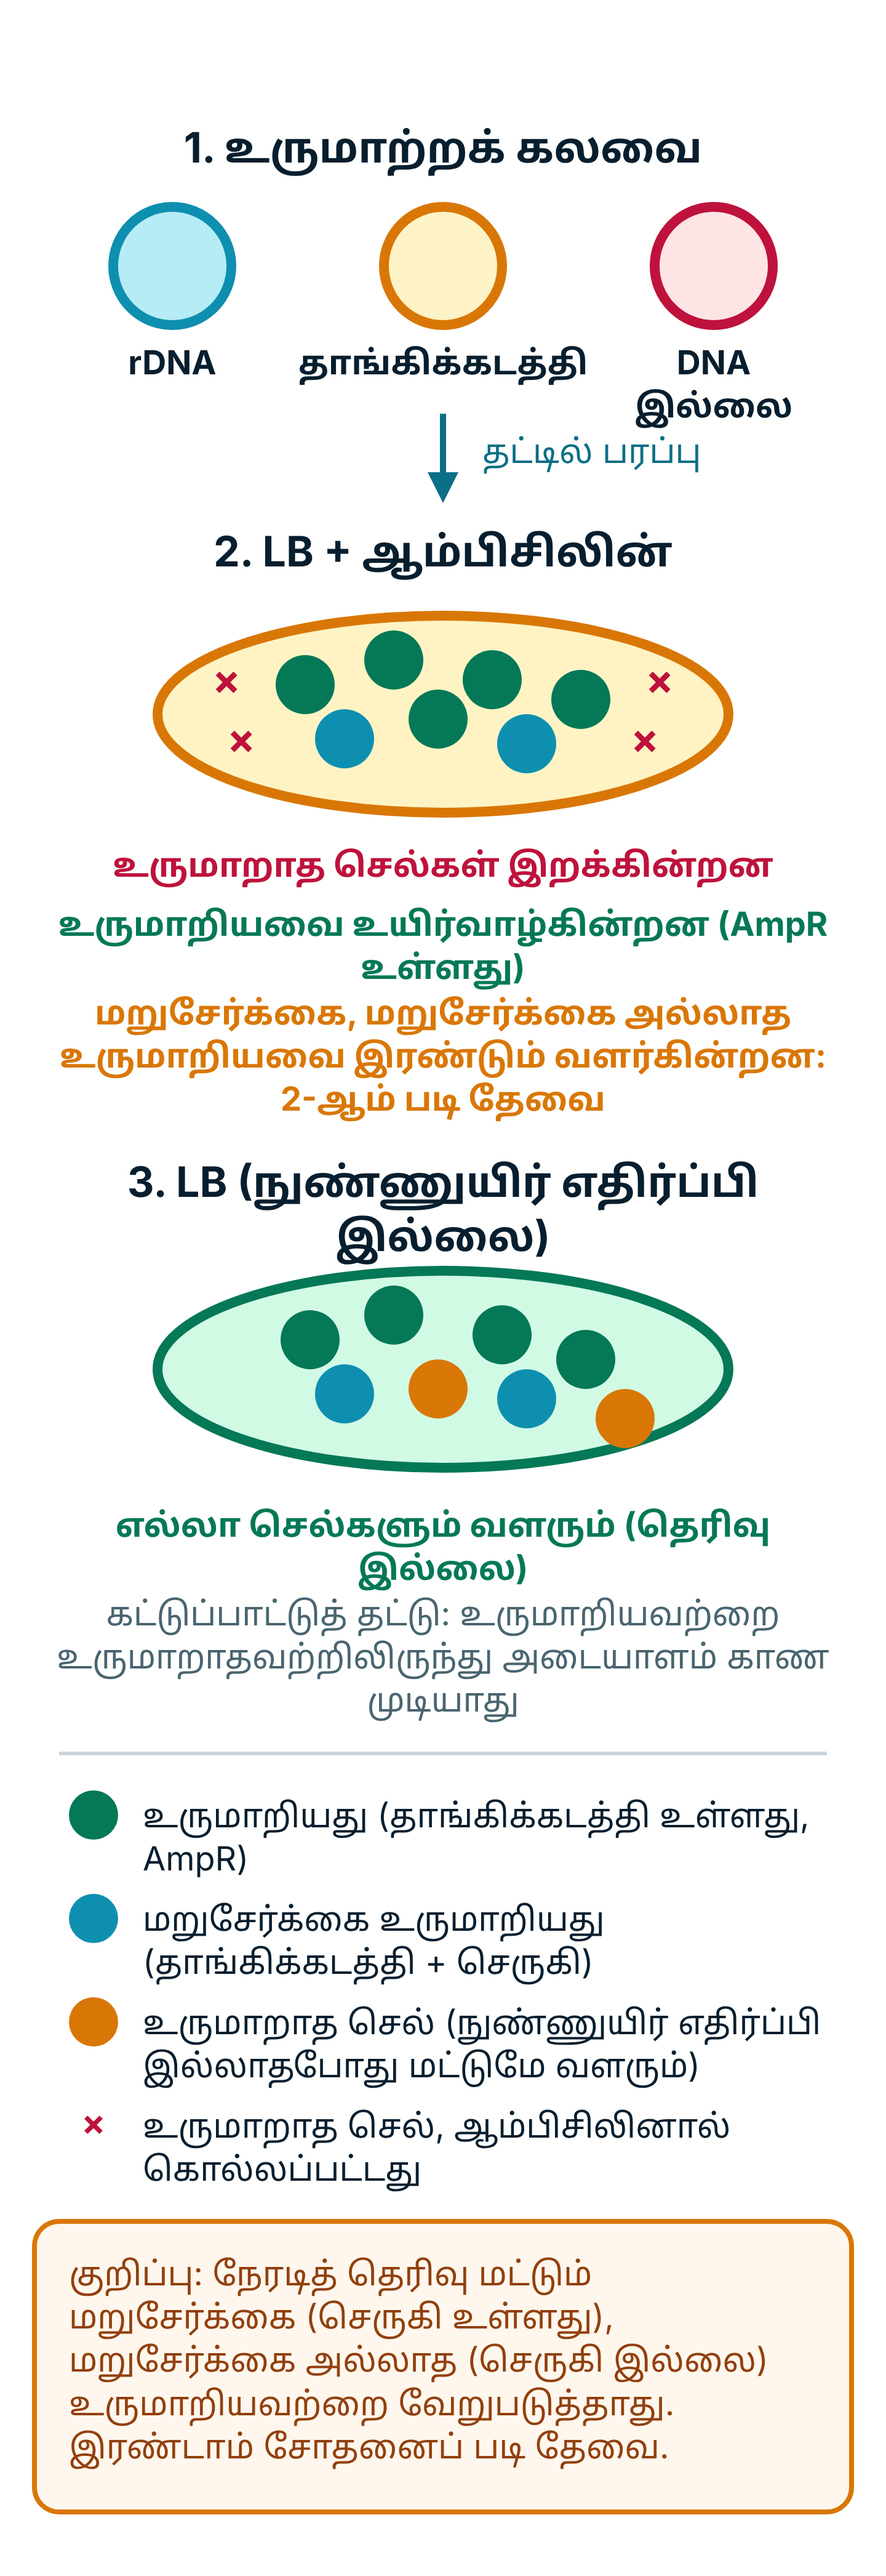
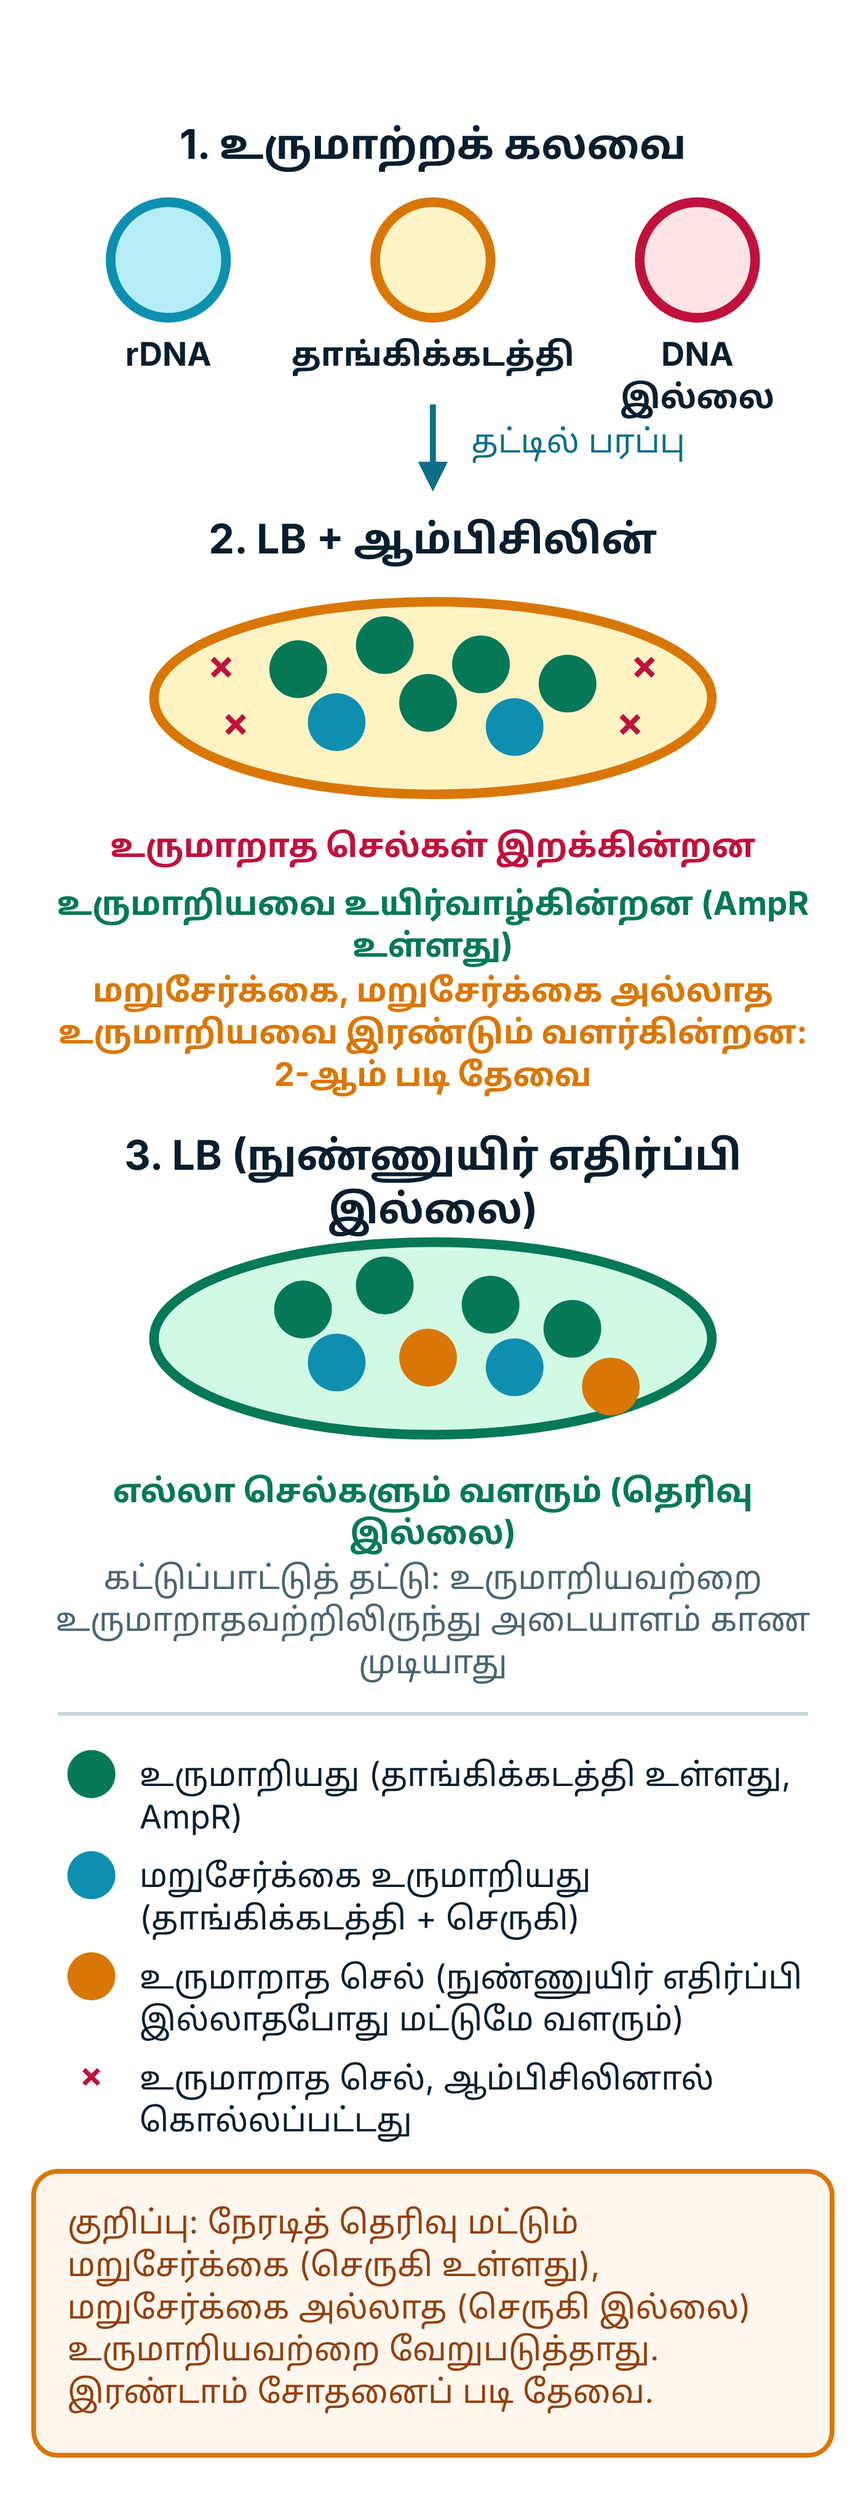
Figure build: scale down so no side exceeds 4096 px (FigureBitmapTest); rebuilt the three batch-1 figures
Unit test caught it: sanger-d01 was 4640 px tall. Now 1408x4090, 1271x4095, 1440x3520.

Claude-Session: https://claude.ai/code/session_01Wo7Biy93fw6YCyh6drJ1WX

diff --git a/tools/figures/build_figure.py b/tools/figures/build_figure.py
@@ -12,7 +12,7 @@ res/font for Tamil; Latin inside Tamil strings also uses Inter), wrapping at dat
 and only then writes the PNGs (1440 px wide) and the alt-text JSON. A failed gate exits non-zero and writes nothing.
 Classes: .h 17, .b 14.5, .s 13.5 units on a 360-unit canvas (13.5 x 300/360 = 11.25 sp).
 """
-import argparse, json, os, shutil, sys
+import argparse, json, os, re, shutil, sys
 from playwright.sync_api import sync_playwright
 HERE = os.path.dirname(os.path.abspath(__file__)); ROOT = os.path.abspath(os.path.join(HERE, '..', '..'))
 sys.path.insert(0, os.path.join(ROOT, 'tools', 'diagrams'))
@@ -21,6 +21,7 @@ INTER = '/usr/share/fonts/opentype/inter/Inter-Regular.otf', '/usr/share/fonts/o
 TAMIL = (os.path.join(ROOT, 'app/src/main/res/font/notosanstamil_regular.ttf'), os.path.join(ROOT, 'app/src/main/res/font/notosanstamil_bold.ttf'))
 STRUCT = {'outside', 'text_text', 'text_stroke', 'text_edge', 'covered', 'shape_overlap', 'stroke_cross', 'arrow_text', 'margin'}
 MIN_SP = 11.0
+MAX_SIDE_PX = 4096
 CSS = """@font-face{font-family:FigEN;src:url(file://%s);font-weight:400}@font-face{font-family:FigEN;src:url(file://%s);font-weight:700}
 @font-face{font-family:FigTA;src:url(file://%s);font-weight:400}@font-face{font-family:FigTA;src:url(file://%s);font-weight:700}
 html,body{margin:0;background:#fff} svg{display:block} svg text{font-family:FigEN,FigTA,sans-serif}
@@ -61,6 +62,9 @@ def main():
         if not os.path.exists(f): sys.exit('missing font ' + f)
     html = '<html><head><meta charset="utf-8"><style>' + CSS % (INTER + TAMIL) + '</style></head><body>' + svg + '</body></html>'
     tmp = os.path.join('/tmp', 'fig_' + a.id + '.html'); open(tmp, 'w', encoding='utf8').write(html)
+    vb = [float(v) for v in re.search(r'viewBox="([^"]+)"', svg).group(1).split()]
+    scale = min(4.0, MAX_SIDE_PX / (vb[3] * 360.0 / vb[2]))  # 4x unless that would put a side over the 4096 px texture limit (AssetSizeTest)
+    scale = int(scale * 100) / 100.0
     os.makedirs(a.audit, exist_ok=True); report = {}; ok = True; out = []
     with sync_playwright() as p:
         b = p.chromium.launch(executable_path=os.environ.get('CHROME_BIN') or shutil.which('google-chrome') or shutil.which('chromium'), args=['--no-sandbox'])
@@ -73,7 +77,7 @@ def main():
             if issues or bad or (m['minsp'] or 0) < MIN_SP - 0.01: ok = False
             pg.locator('svg').screenshot(path=os.path.join(a.audit, f'{a.id}_after{suffix}_300dp.png'))
             pg.evaluate(FORCE_T.replace('__W__', '360'), 0); pg.close()
-            pg = b.new_page(viewport={'width': 800, 'height': 1000}, device_scale_factor=4); pg.goto('file://' + tmp); pg.evaluate(LAYOUT, [S, lang])
+            pg = b.new_page(viewport={'width': 800, 'height': 1000}, device_scale_factor=scale); pg.goto('file://' + tmp); pg.evaluate(LAYOUT, [S, lang])
             pg.evaluate(FORCE_T.replace('__W__', '360'), 0); out.append((lang, suffix, pg.locator('svg').screenshot(type='png'))); pg.close()
         b.close()
     json.dump(report, open(os.path.join(a.audit, a.id + '-geometry.json'), 'w'), ensure_ascii=False, indent=1)
